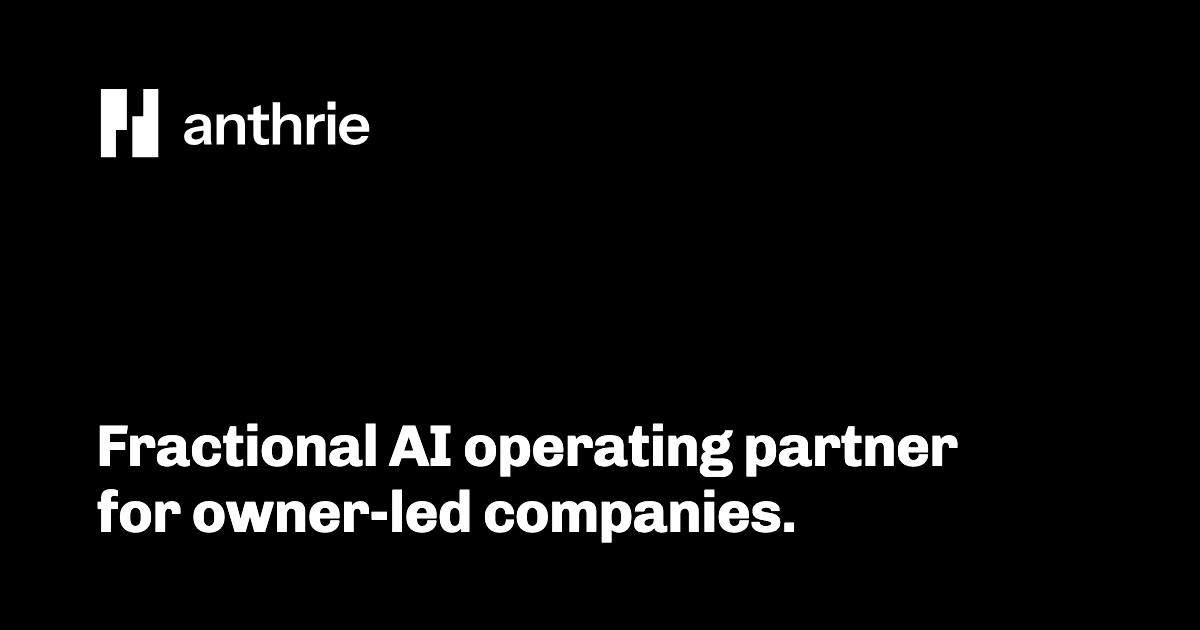
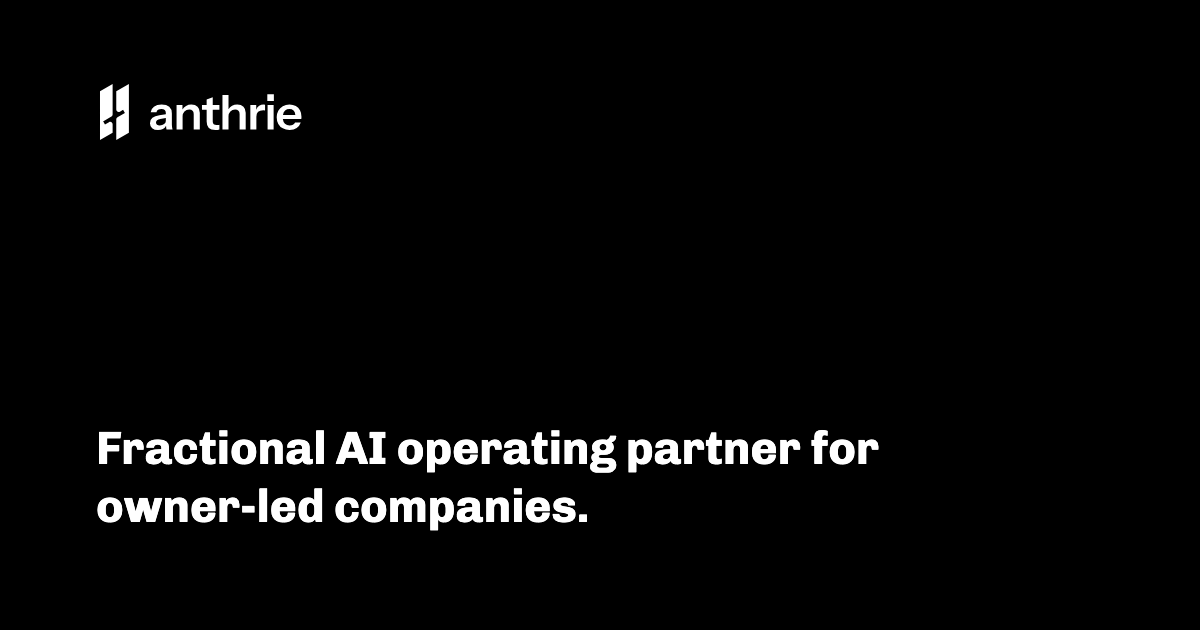
Add branded 404 page, refresh OG image, add structured data
- 404.html rebuilt on-brand (was plain "Not Found" text) with the
  logomark and a link back home
- og.png regenerated with the current logomark (was showing the old
  placeholder icon)
- Added ProfessionalService/Person JSON-LD to index.html for SEO
- Added standalone logomark SVGs (ink/white) to brand/

Changed region(s): [[0.0617, 0.6635, 0.8017, 0.8746], [0.0617, 0.1206, 0.3083, 0.2714]]

diff --git a/404.html b/404.html
@@ -1,1 +1,35 @@
-Not Found
+<!DOCTYPE html>
+<html lang="en">
+<head>
+<meta charset="utf-8"/>
+<meta name="viewport" content="width=device-width, initial-scale=1"/>
+<title>Page not found | Anthrie</title>
+<meta name="robots" content="noindex"/>
+<link rel="icon" href="/favicon.ico"/>
+<link rel="apple-touch-icon" href="/brand/anthrie-icon-180.png"/>
+<link rel="preload" href="/assets/chivo-latin-wght-normal-CPi3f958.woff2" as="font" type="font/woff2" crossorigin/>
+<link rel="preload" href="/assets/chivo-mono-latin-wght-normal-DXNvimoL.woff2" as="font" type="font/woff2" crossorigin/>
+<link rel="stylesheet" href="/assets/index-BNKTEpq3.css"/>
+<style>
+@font-face{font-family:'Chivo';src:url('/assets/chivo-latin-wght-normal-CPi3f958.woff2') format('woff2');font-weight:100 900;font-style:normal;font-display:swap}
+@font-face{font-family:'Chivo Mono';src:url('/assets/chivo-mono-latin-wght-normal-DXNvimoL.woff2') format('woff2');font-weight:100 900;font-style:normal;font-display:swap}
+:root{--font-chivo:'Chivo','Helvetica Neue','Arial',sans-serif;--font-chivo-mono:'Chivo Mono',ui-monospace,'SF Mono','Courier New',monospace}
+.notfound{background:var(--absolute);color:var(--signal);min-height:100vh;padding:var(--gutter);box-sizing:border-box;display:flex;flex-direction:column;justify-content:center;align-items:flex-start}
+.notfound-mark{width:40px;height:auto;margin-bottom:40px}
+.notfound p.eyebrow{color:var(--fog-55)}
+.notfound h1{font-size:clamp(48px,8vw,96px);line-height:1;margin:16px 0 20px}
+.notfound p.lede{color:var(--fog-55);font-size:18px;max-width:48ch;margin:0 0 40px}
+.notfound .button-dark{background:var(--signal);color:var(--absolute);border-color:var(--signal)}
+.notfound .button-dark:hover{background:var(--absolute);color:var(--signal)}
+</style>
+</head>
+<body>
+<main class="notfound">
+<img class="notfound-mark" src="/brand/anthrie-logomark-white.svg" alt="Anthrie" width="107" height="207"/>
+<p class="eyebrow">404</p>
+<h1>This page doesn&#x27;t exist.</h1>
+<p class="lede">The link may be old, or mistyped. Everything that matters is one click from home.</p>
+<a class="button button-dark" href="/">Back to anthrie.com</a>
+</main>
+</body>
+</html>

diff --git a/index.html b/index.html
@@ -33,6 +33,33 @@
 @font-face{font-family:'Chivo Mono';src:url('/assets/chivo-mono-latin-wght-normal-DXNvimoL.woff2') format('woff2');font-weight:100 900;font-style:normal;font-display:swap}
 :root{--font-chivo:'Chivo','Helvetica Neue','Arial',sans-serif;--font-chivo-mono:'Chivo Mono',ui-monospace,'SF Mono','Courier New',monospace}
 </style>
+<script type="application/ld+json">
+{
+  "@context": "https://schema.org",
+  "@type": "ProfessionalService",
+  "name": "Anthrie",
+  "url": "https://anthrie.com",
+  "logo": "https://anthrie.com/brand/anthrie-logomark-ink.svg",
+  "image": "https://anthrie.com/og.png",
+  "description": "Anthrie is a fractional AI operating partner for owner-led companies.",
+  "email": "sundeep@anthrie.com",
+  "founder": {
+    "@type": "Person",
+    "name": "Sundeep Kumar",
+    "jobTitle": "Managing Director & CEO",
+    "email": "sundeep@anthrie.com",
+    "sameAs": "https://linkedin.com/in/kumarsundeep"
+  },
+  "address": {
+    "@type": "PostalAddress",
+    "streetAddress": "60 Paya Lebar Road, #07-54, Paya Lebar Square",
+    "addressLocality": "Singapore",
+    "postalCode": "409051",
+    "addressCountry": "SG"
+  },
+  "areaServed": "IN"
+}
+</script>
 </head>
 <body>
 <a class="skip-link" href="#main-content">Skip to content</a>
